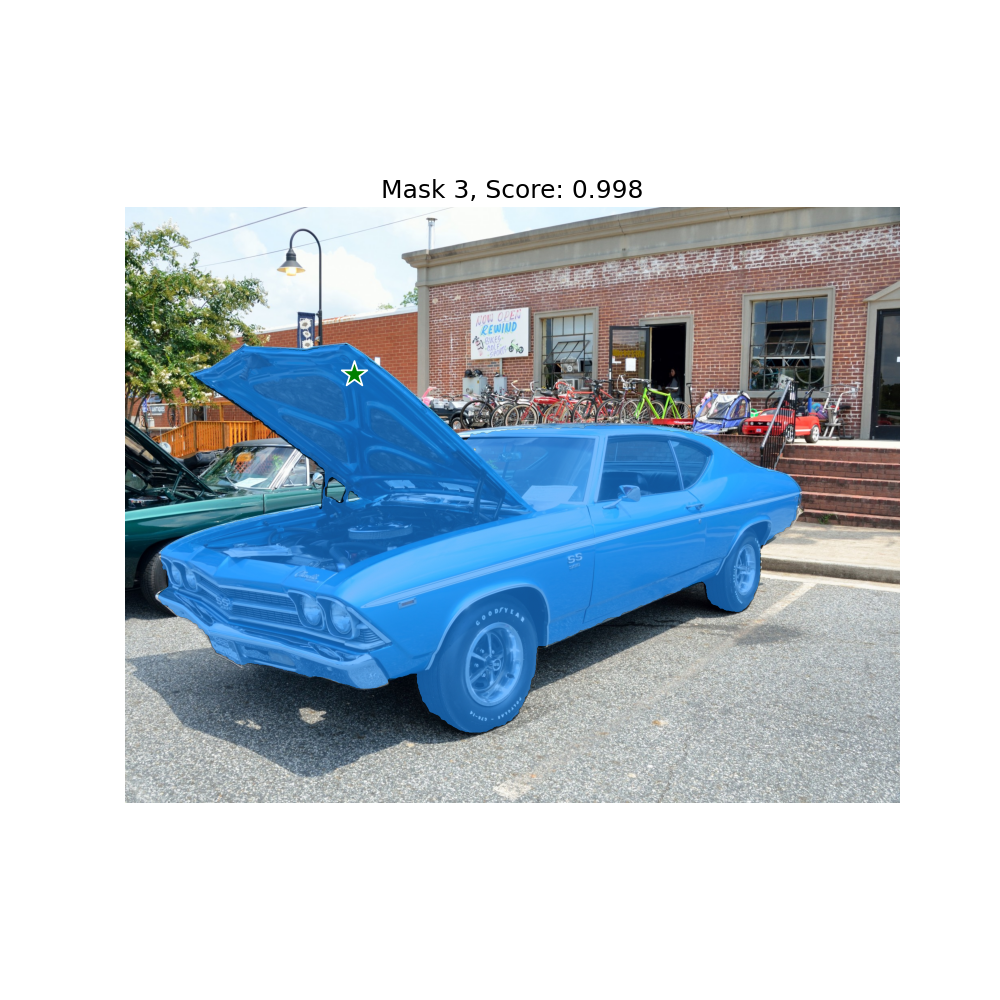
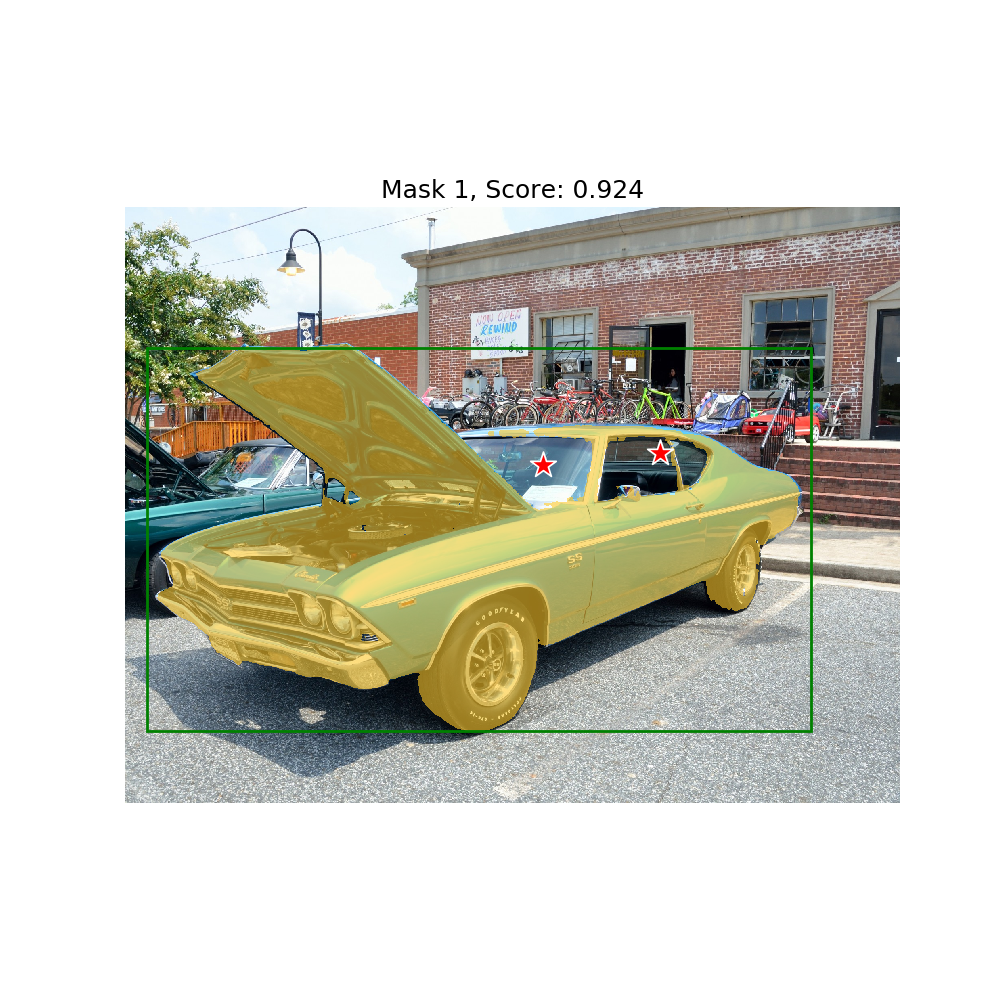
Updated README and examples

diff --git a/scripts/sam_test.py b/scripts/sam_test.py
@@ -13,7 +13,10 @@ from ros_sam.srv import Segmentation         as SegmentationSrv, \
                         SegmentationRequest  as SegmentationRequestMsg
 
 
-from ros_sam import SAMClient, show_mask, show_points
+from ros_sam import SAMClient, \
+                    show_mask, \
+                    show_points, \
+                    show_box
 
 if __name__ == '__main__':
     rospy.init_node('ros_sam_test')
@@ -25,18 +28,23 @@ if __name__ == '__main__':
     image  = cv2.imread(f'{Path(__file__).parent}/../data/car.jpg')
     image  = cv2.cvtColor(image, cv2.COLOR_BGR2RGB)
 
-    points  = np.array([[566, 414]])
-    labels      = np.array([1])
+    points = np.array([[1035, 640],
+                       [1325, 610]])
+    labels = np.array([0, 0])
+    boxes  = np.asarray([[54, 350, 1700, 1300]])
 
     sam = SAMClient('ros_sam')
     
-    masks, scores = sam.segment(image, points, labels)
+    masks, scores = sam.segment(image, points, labels, boxes=boxes)
     
     for i, (mask, score) in enumerate(zip(masks, scores)):
         plt.figure(figsize=(10,10))
         plt.imshow(image)
-        show_mask(mask, plt.gca())
+        show_mask(mask, plt.gca(), color=(255, 200, 40, 150))
         show_points(points, labels, plt.gca())
+        for box in boxes:
+            show_box(box, plt.gca())
+
         plt.title(f"Mask {i+1}, Score: {score:.3f}", fontsize=18)
         plt.axis('off')
         plt.show()

diff --git a/src/ros_sam/sam.py b/src/ros_sam/sam.py
@@ -10,13 +10,14 @@ import gc
 
 class SAM():
     def __init__(self, model_type, cuda_device=None) -> None:
-        checkpoints = list(Path(f'{Path(__file__).parent}/../../models').glob(f'sam_{model_type}_*.pth'))
+        model_dir   = Path(Path(__file__).parent.parent.parent / 'models').absolute()
+        checkpoints = list(model_dir.glob(f'sam_{model_type}_*.pth'))
 
         if len(checkpoints) == 0:
-            raise RuntimeError(f'No matching checkpoints for SAM model "{model_type}" was found in "package://ros_sam/models"')
+            raise RuntimeError(f'No matching checkpoints for SAM model "{model_type}" was found in "{model_dir}"')
         
         if len(checkpoints) > 1:
-            raise RuntimeError(f'No unique checkpoint for SAM model "{model_type}" found in "package://ros_sam/models"')
+            raise RuntimeError(f'No unique checkpoint for SAM model "{model_type}" found in "{model_dir}"')
         
         gc.collect()
         torch.cuda.empty_cache()

diff --git a/src/ros_sam/utils.py b/src/ros_sam/utils.py
@@ -1,11 +1,11 @@
 import numpy as np
 import matplotlib.pyplot as plt
 
-def show_mask(mask, ax, random_color=False):
-    if random_color:
+def show_mask(mask, ax, color=(30, 140, 255, 150)):
+    if color == 'random':
         color = np.concatenate([np.random.random(3), np.array([0.6])], axis=0)
     else:
-        color = np.array([30/255, 144/255, 255/255, 0.6])
+        color = np.asarray(color) / 255
     h, w = mask.shape[-2:]
     mask_image = mask.reshape(h, w, 1) * color.reshape(1, 1, -1)
     ax.imshow(mask_image)

diff --git a/scripts/sam_node.py b/scripts/sam_node.py
@@ -15,7 +15,7 @@ from ros_sam import SAM
 if __name__ == '__main__':
     rospy.init_node('ros_sam')
 
-    model = rospy.get_param('~model', 'vit_l')
+    model = rospy.get_param('~model', 'vit_h')
     cuda  = rospy.get_param('~cuda', 'cuda')
 
     bridge = CvBridge()

diff --git a/README.md b/README.md
@@ -1,6 +1,11 @@
 # ROS SAM
 
-This package is what the name suggests: Meta's `segment-anything` wrapped in a ROS node.
+This package is what the name suggests: Meta's `segment-anything` wrapped in a ROS node. In this wrapper we offer...
+
+ - ROS services for segmenting images using point and box queries
+ - An RQT interface for specifying point queries interactively.
+ - A Python client which handles the serialization of queries.
+
 
 ## Installation
 
@@ -8,6 +13,7 @@ Installation is easy:
  1. Start by cloning this package into your ROS environment. 
  2. Download the (checkpoints)[https://github.com/facebookresearch/segment-anything#model-checkpoints] for the desired SAM models to the `models` directory in this package.
  3. Install SAM by running `pip install git+https://github.com/facebookresearch/segment-anything.git`.
+
 
 ## Using ROS SAM standalone
 
@@ -17,11 +23,18 @@ Run the SAM ROS node using `rosrun`:
 rosrun ros_sam sam_node.py
 ```
 
+The node has two parameters:
+ - `~model` SAM model to use, defaults to `vit_h`. Check SAM documentation for options.
+ - `~cuda` whether to use CUDA and which device, defaults to `cuda`. Use `cpu` if you have no CUDA.If you want to use a specific GPU, set someting like `cuda:1`.
+
 The node currently offers a single service `ros_sam/segment` which can be called to segment an image. Check `rossrv show ros_sam/Segmentation` for request and response specifications.
 
-You can test SAM by starting the node and then running `rosrun ros_sam sam_test.py`.
+You can test SAM by starting the node and then running `rosrun ros_sam sam_test.py`. This should yield the following result:
 
-## ROS SAM Services
+<img src="figures/segmentation-example.png" width=50% height=50%>
+
+
+### ROS Services
 
 `ros_sam` offers a single service `segment` of the type `ros_sam/Segmentation.srv`. The service definition is
 ```
@@ -43,11 +56,29 @@ The service request takes input image, input point prompts, corresponding labels
 
 To learn more about the types and use of different queries, please refer to the [original SAM tutorial](https://github.com/facebookresearch/segment-anything/blob/main/notebooks/predictor_example.ipynb)
 
-The service calls are wrapped up conveniently in the ROS SAM client
+The service calls are wrapped up conveniently in the ROS SAM client.
+
+
+## Using with RQT click interface
+
+To use the GUI install the following in your ROS workspace:
+
+[rqt_image_view_seg](https://github.com/ipab-slmc/rqt_image_view_seg)
+
+Run the launch file:
+
+`roslaunch ros_sam gui_test.launch`
+
+Check the terminal and wait until the SAM model has finished loading.
+
+There will be two windows loaded. One will have the header `rqt_image_view_seg__ImageView` and the other `rqt_image_view__ImageView`, note the lack of `_seg`. The first window is where you should click, so select the topic of the camera you want to view from the drop down. In the second window you should select `/rqt_image_segmentation/masked_image`. This is where the segmented image will be displayed.
+
+<img src="figures/interface-example.png" width=50% height=50%>
+
 
 ## Using ROS SAM client
 
-Alternatively, one can use the ROS SAM client instead of the service calls.
+Alternatively, if you don't feel like assembling the service calls yourself, one can use the ROS SAM client instead of the service calls.
 
 Initialize the client with the service name of the SAM segmentation service
 ```python
@@ -69,20 +100,3 @@ from ros_sam import show_mask, show_points
 show_mask(masks[0], plt.gca())
 show_points(points, np.asarray(labels), plt.gca())
 ```
-<img src="https://github.com/ARoefer/ros_sam/blob/devel/harsha/figures/segmentation-example.png" width=50% height=50%>
-
-## Using with RQT click interface
-
-To use the GUI install the following in your ROS workspace:
-
-[rqt_image_view_seg](https://github.com/ipab-slmc/rqt_image_view_seg)
-
-Run the launch file:
-
-`roslaunch ros_sam gui_test.launch`
-
-Check the terminal and wait until the SAM model has finished loading.
-
-There will be two windows loaded. One will have the header `rqt_image_view_seg__ImageView` and the other `rqt_image_view__ImageView`, note the lack of `_seg`. The first window is where you should click, so select the topic of the camera you want to view from the drop down. In the second window you should select `/rqt_image_segmentation/masked_image`. This is where the segmented image will be displayed.
-
-<img src="https://github.com/ARoefer/ros_sam/blob/devel/russell/figures/interface-example.png" width=50% height=50%>
